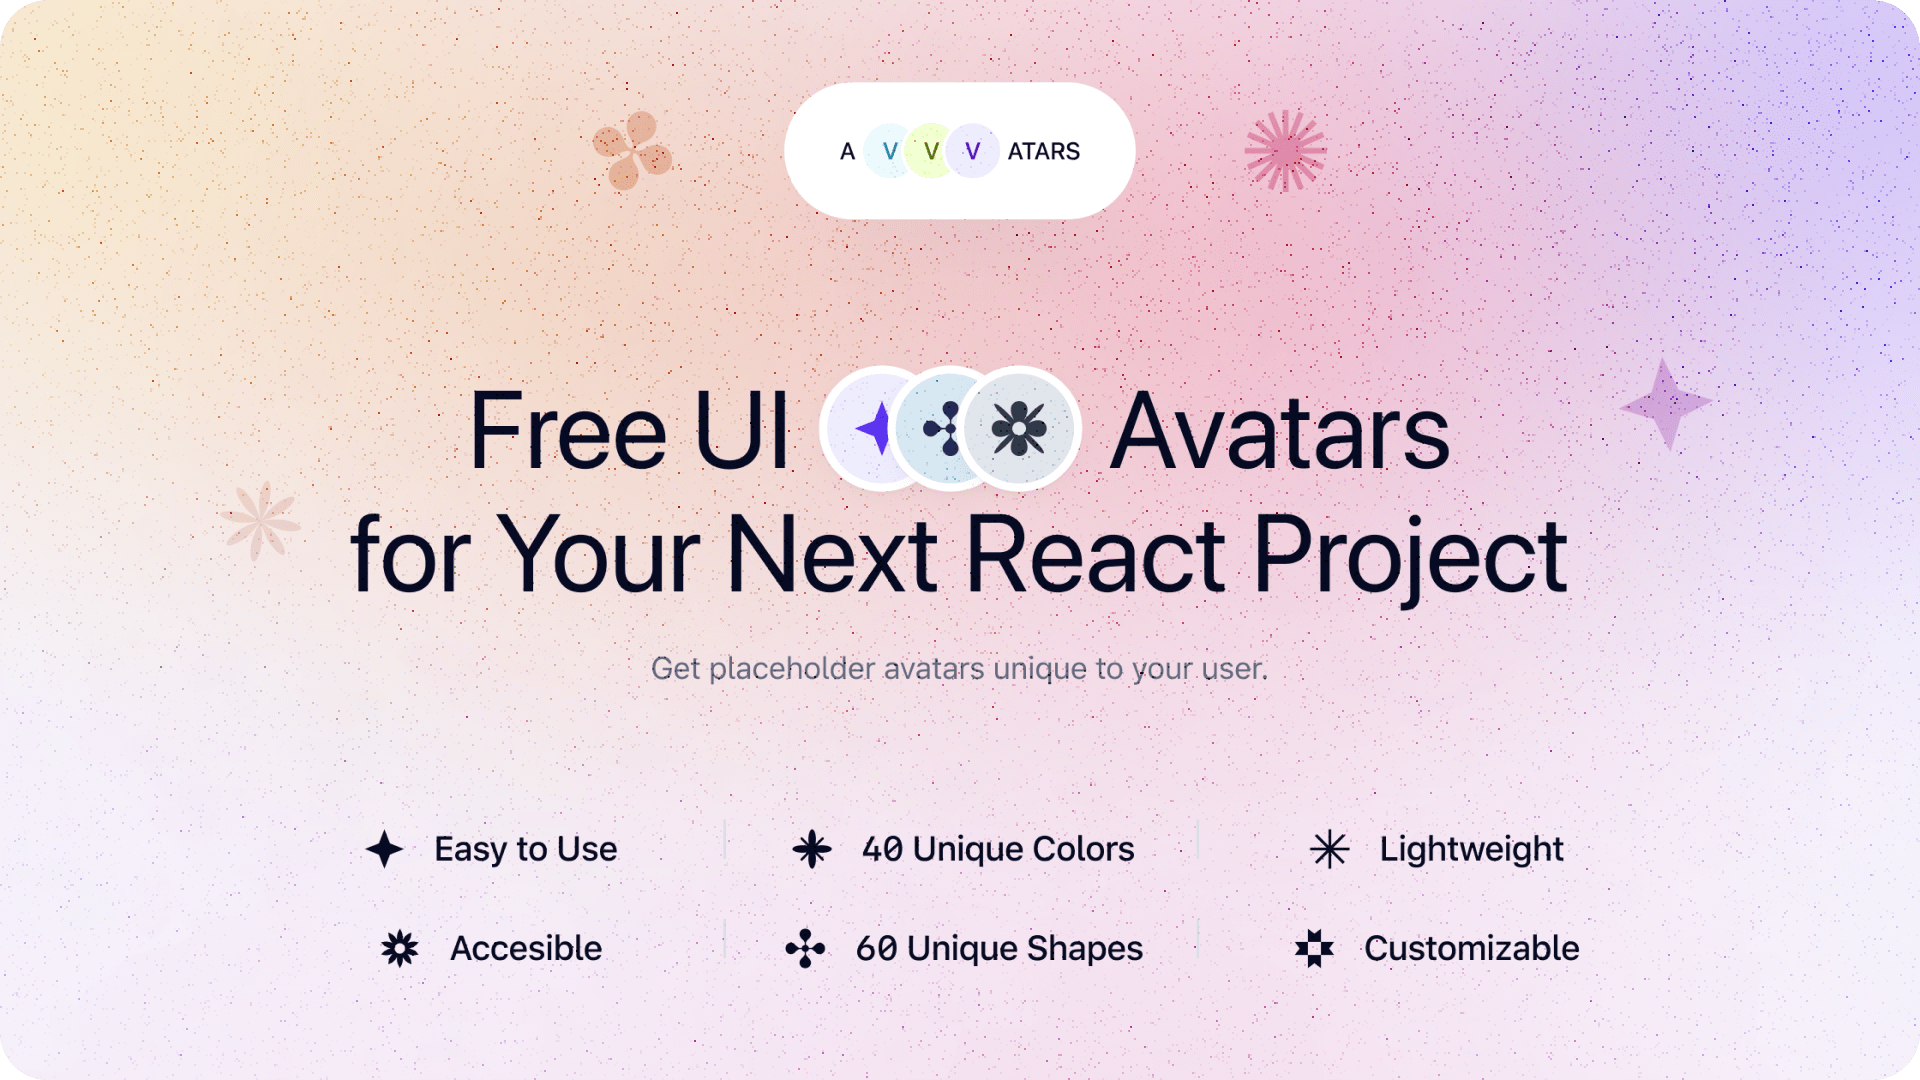
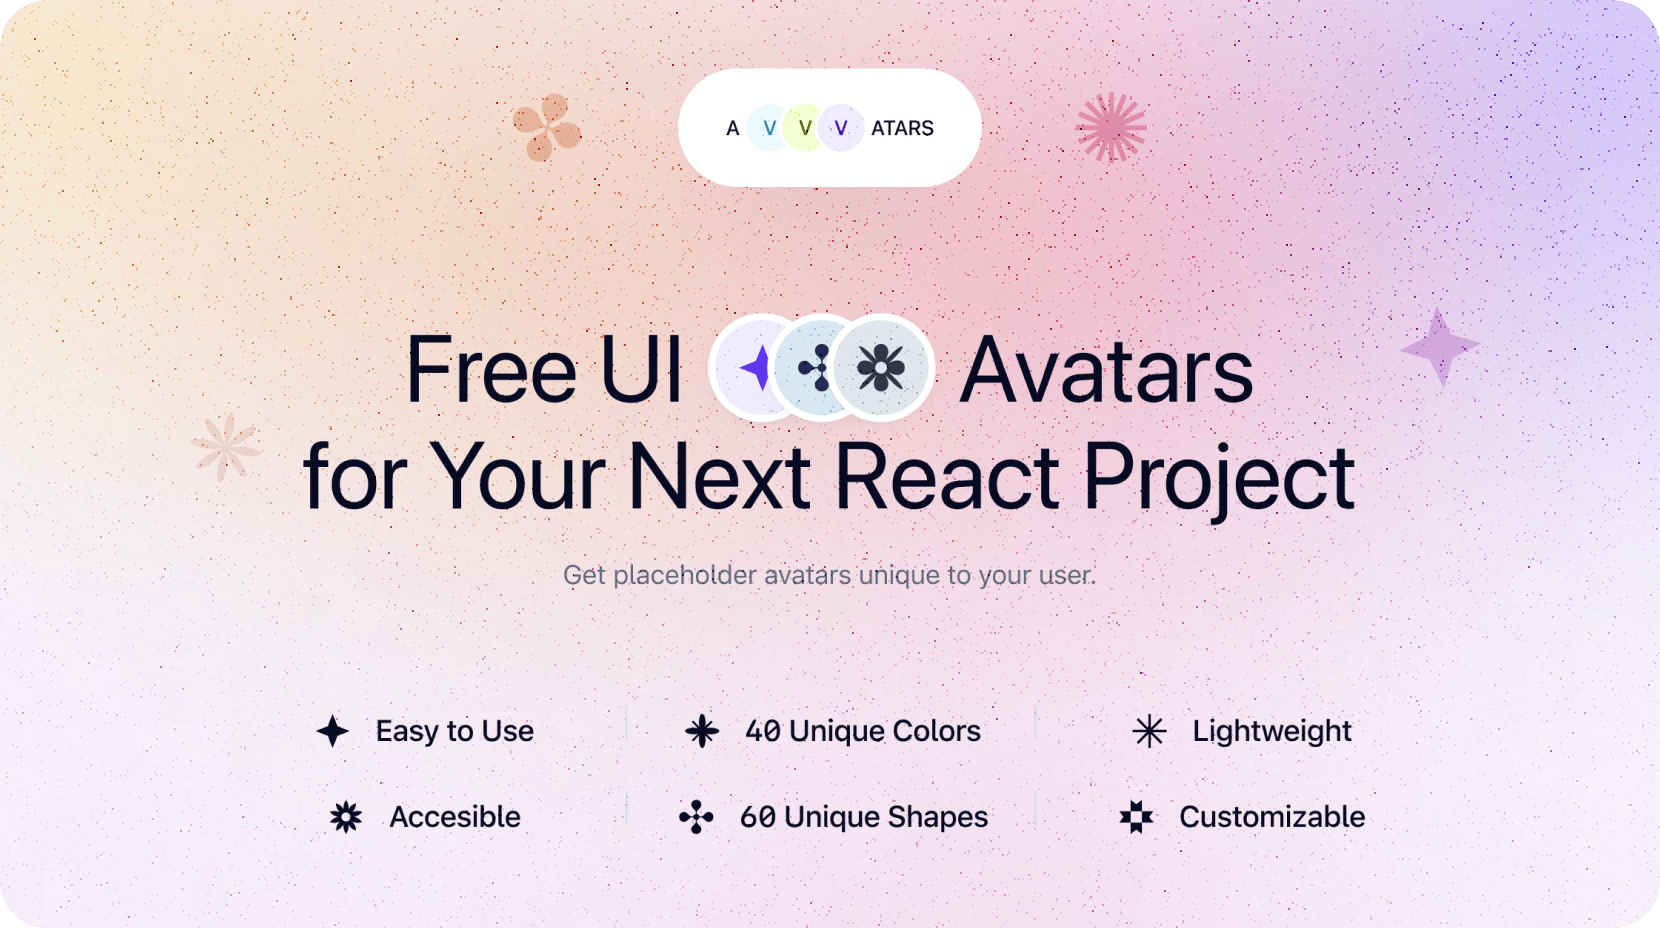
update thumbnail and delete readme extra borders

diff --git a/README.md b/README.md
@@ -1,10 +1,8 @@
 <div align="center">
-  <img src="https://github.com/nusu/avvvatars/raw/main/thumbnail.png" alt="Avvvatars" height="540">
+  <img src="https://github.com/nusu/avvvatars/raw/main/thumbnail.png" alt="Avvvatars" height="464">
 </div>
 
 # Avvvatars
-
----
 
 Beautifully crafted unique avatar placeholder for your next react project
 
@@ -18,8 +16,6 @@ Built by [Nusu Alabuga](https://twitter.com/nusualabuga) and [Oguz Yagiz Kara](h
 
 ## Features
 
----
-
 - 🌈 **40 Colors** - Colors are so on point that most of the projects can use it without changing it
 - 💠 **60 Shapes** - Beautifully crafted shapes that are unique to your user with color combination
 - 🆎  **Text or Shapes** 🔸 - ****Use letters (eg. JD for John Doe) or unique shapes
@@ -28,8 +24,6 @@ Built by [Nusu Alabuga](https://twitter.com/nusualabuga) and [Oguz Yagiz Kara](h
 - ✍ **Customizable** - use shadows, change size, provide alternative text to display
 
 ## Installation
-
----
 
 **With yarn**
 
@@ -45,8 +39,6 @@ npm install avvvatars-react
 
 ## Getting Started
 
----
-
 Import Avvvatars to your app, then use it anywhere you want.
 
 ```jsx
@@ -60,8 +52,6 @@ export default function MyAvatar() {
 ```
 
 ## Customization
-
----
 
 ### value: string
 
